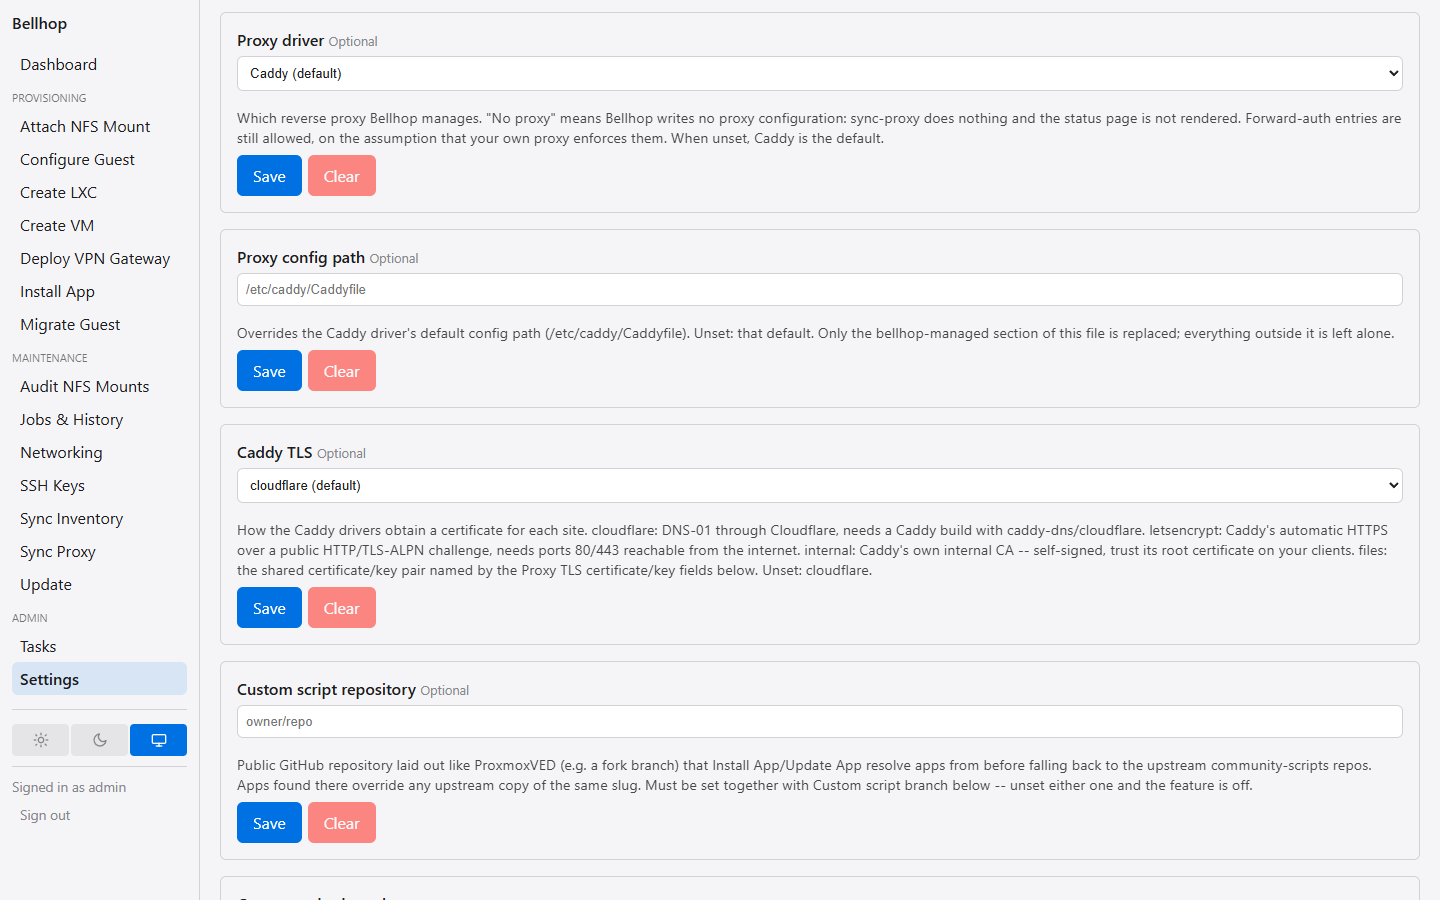
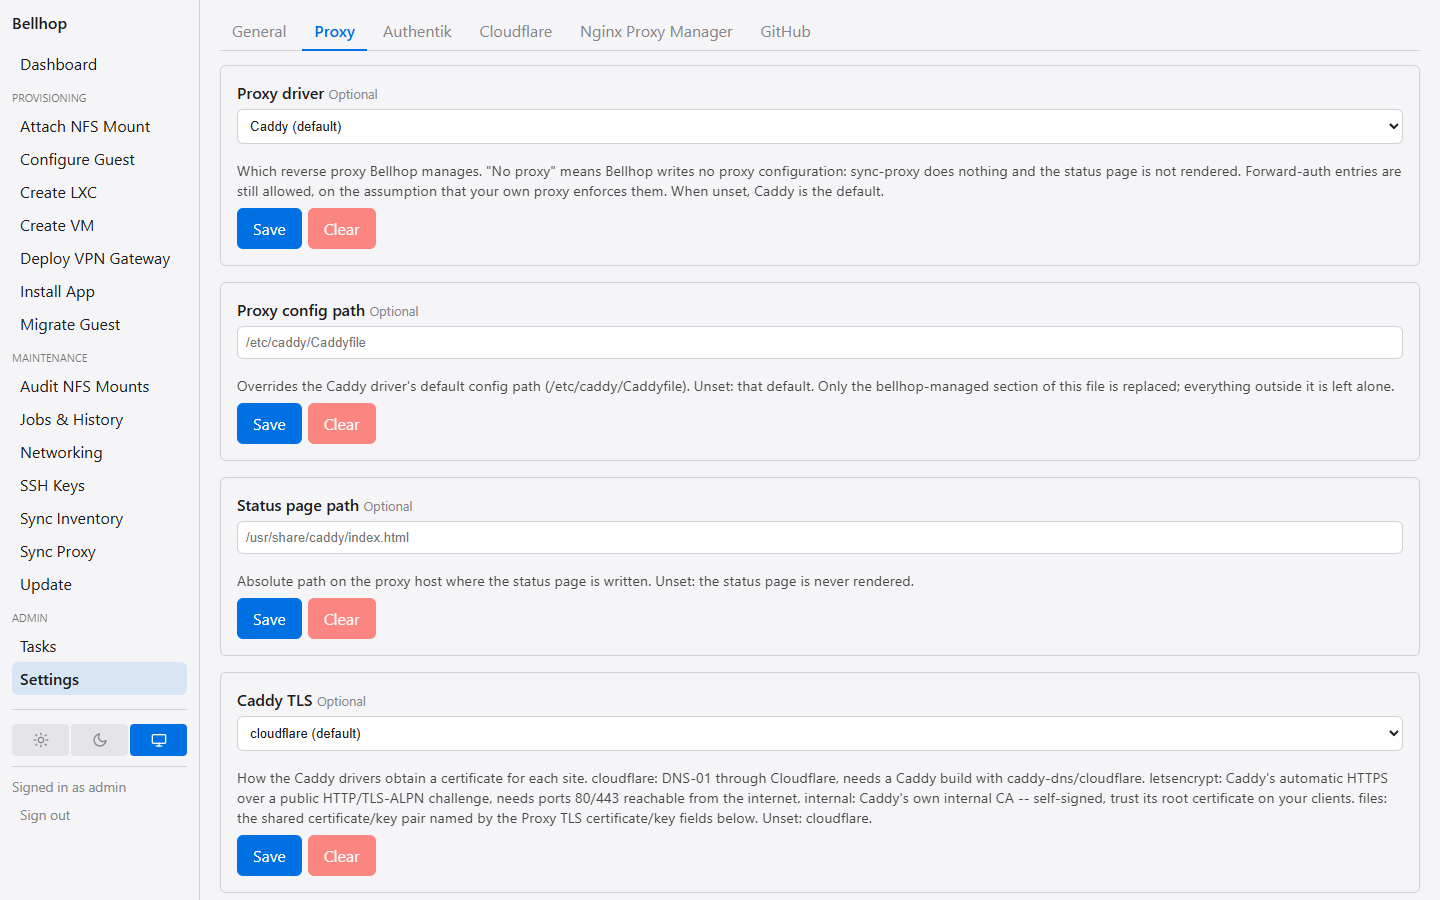
Regenerate the Settings screenshot on the Proxy tab (#64)
The proxy driver field moved to the Proxy tab when the page was grouped
by integration, so the capture opens that tab first. Only this image
changed; checked by eye for example-only values.

Claude-Session: https://claude.ai/code/session_011ZaTNsQ9UrZEgma24LdKvh

Changed region(s): [[0.1562, 0.0311, 0.9688, 0.9956], [0.3438, 0.0311, 0.5, 0.0622], [0.5312, 0.0311, 0.5625, 0.0622]]

diff --git a/scripts/screenshots.ts b/scripts/screenshots.ts
@@ -135,15 +135,15 @@ export const SCREENSHOTS: ScreenshotDefinition[] = [
     theme: 'light',
     ready: 'role=combobox[name=/^Proxy driver/][disabled=false]',
     prepare: async (page) => {
-      // The proxy driver field sits below the fold; bring it and the
-      // driver-dependent fields after it to the top of the viewport.
+      // The proxy driver field lives on the Proxy tab (issue #64 grouped the
+      // page by integration); open it, then bring the tab strip and the
+      // driver-dependent fields below it to the top of the viewport.
+      await page.getByRole('tab', { name: 'Proxy', exact: true }).click({ timeout: 15_000 });
       const driver = page.getByRole('combobox', { name: /^Proxy driver/ });
       await driver.and(page.locator(':enabled')).waitFor({ timeout: 15_000 });
-      await driver.evaluate((el) => {
-        const field = el.closest<HTMLElement>('.settings-field');
-        if (!field) return;
-        field.style.scrollMarginTop = '12px';
-        field.scrollIntoView({ block: 'start' });
+      await page.getByRole('tablist').evaluate((el) => {
+        (el as HTMLElement).style.scrollMarginTop = '12px';
+        el.scrollIntoView({ block: 'start' });
       });
     },
   },

diff --git a/specs/064-one-settings-store/tasks.md b/specs/064-one-settings-store/tasks.md
@@ -123,7 +123,7 @@ next request's `isAdminUser` uses it; with `AUTHENTIK_ADMIN_GROUP` set, the API 
 - [X] T041 [P] Demo: scripts/demo/demo-server.ts registers the config store on its own inventory path and seeds example secrets in the "set" state (`cloudflareDnsApiToken`, `npmApiPassword`, `githubApiToken` -- not the Authentik token, since the demo injects an unconfigured Authentik client) and example non-secret values; stores `webUiAuthMode` instead of setting the env var where possible; extend test/scripts/demo/demo-server.test.ts / demo-inventory.test.ts for the example-only invariant
 - [X] T042 [P] Docs: docs/environment-variables.md (overrides + env-only list), docs/configuration.md (new settings, secrets, import, deleting the files, GitHub token note: fine-grained token with no repository permissions is enough for public repos), docs/web-ui.md (tabs, secret fields, env-pinned, guards), docs/authentik.md (settings instead of data/authentik.env, auth mode setting + lockout recovery), README.md quickstart if it mentions data/*.env
 - [X] T043 [P] CLAUDE.md: update every data/*.env passage (dotenv entry points, authentik-config.ts, Cloudflare/NPM clients, `WEB_UI_AUTH_MODE`, worktree seeding now just `bellhop.db`), remove the #63 unauthenticated-GitHub single-operator note, describe the store/accessor/snapshot/import; CONTRIBUTING.md if it restates env-file setup
-- [ ] T044 Regenerate the Settings screenshot(s) under docs/images/ with `npm run docs:screenshots` if the Settings page is screenshotted; check example-only values by eye
+- [X] T044 Regenerate the Settings screenshot(s) under docs/images/ with `npm run docs:screenshots` if the Settings page is screenshotted; check example-only values by eye
 - [ ] T045 Run quickstart.md: typecheck, full test suite, web:build; browser check of the Settings page at desktop and 375px, light and dark (dev server + demo); CLI `--stdin` and argv refusal; import against a copied database
 
 ---
